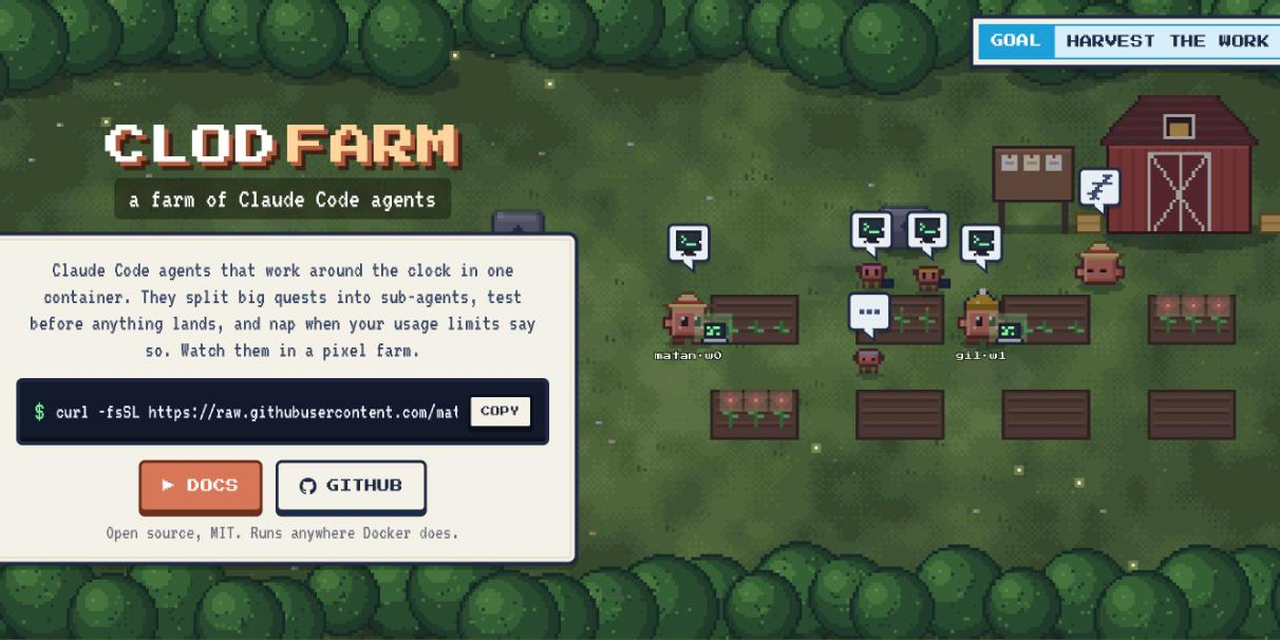
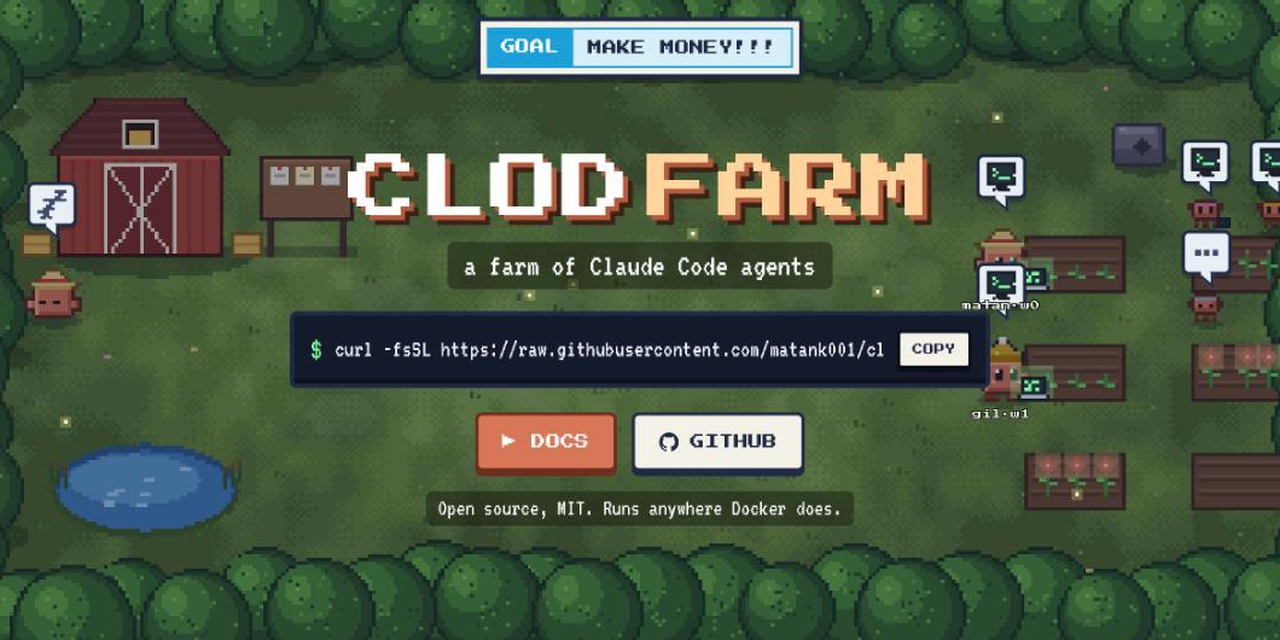
clod.farm: centred title with no panel and no blurb, the field keeps clear of it; GOAL: MAKE MONEY!!!
Claude-Session: https://claude.ai/code/session_015HtZEg3aoN4GPP1rheXQio

diff --git a/clodfarm/ui/app.js b/clodfarm/ui/app.js
@@ -248,10 +248,12 @@ function layoutWorld(W, H, opts = {}) {
   const barn = { w: 46, h: 44 };
   barn.x = opts.barnRight && !portrait ? play.x1 - barn.w - 6 : play.x0 + 6; barn.y = play.y0 - 6;
   const board = { x: opts.barnRight && !portrait ? barn.x - 36 : barn.x + barn.w + 10, y: barn.y + 16, w: 26, h: 20 };
-  const cols = portrait ? 2 : (play.x1 - play.x0 > 300 ? 4 : 3), rows = portrait ? 3 : 2;
+  // opts.clearCenter keeps the middle free for a title (the landing page): the field goes to the right
+  const reserve = opts.reserve && !portrait ? opts.reserve : null;
+  const cols = portrait || reserve ? 2 : (play.x1 - play.x0 > 300 ? 4 : 3), rows = portrait || reserve ? 3 : 2;
   const pw = 26, ph = 14, gx = 20, gy = 16;
   const fw = cols * pw + (cols - 1) * gx, fh = rows * ph + (rows - 1) * gy;
-  const fx = portrait ? Math.round((W - fw) / 2 + 8) : Math.round(play.x1 - fw - 12);
+  const fx = portrait ? Math.round((W - fw) / 2 + 8) : reserve ? Math.round((reserve.x + reserve.w + play.x1) / 2 - fw / 2 + 6) : Math.round(play.x1 - fw - 12);
   const fy = portrait ? Math.round(barn.y + barn.h + 34) : Math.round(Math.max((play.y0 + play.y1) / 2 - fh / 2 + 12, opts.barnRight ? barn.y + barn.h + 20 : 0));
   const plots = [];
   for (let r = 0; r < rows; r++) for (let c = 0; c < cols; c++)
@@ -260,12 +262,12 @@ function layoutWorld(W, H, opts = {}) {
   const pond = { cx: play.x0 + 30, cy: play.y1 - 14, rx: 24, ry: 11 };
   const rest = { x: barn.x + 10, y: barn.y + barn.h + 12 };
   const door = { x: barn.x + barn.w / 2, y: barn.y + barn.h + 2 };
-  return { W, H, T, play, portrait, barn, board, plots, field, pond, rest, door, rocks: [] };
+  return { W, H, T, play, portrait, barn, board, plots, field, pond, rest, door, rocks: [], reserve };
 }
 
 function blocked(L, x, y) {
   const inR = (r, pad = 0) => x > r.x - pad && x < r.x + r.w + pad && y > r.y - pad && y < r.y + r.h + pad + 4;
-  if (inR(L.barn, 8) || inR(L.board, 6) || inR(L.field, 2)) return true;
+  if (inR(L.barn, 8) || inR(L.board, 6) || inR(L.field, 2) || (L.reserve && inR(L.reserve, 12))) return true;
   if (((x - L.pond.cx) / (L.pond.rx + 8)) ** 2 + ((y - L.pond.cy) / (L.pond.ry + 6)) ** 2 < 1) return true;
   return L.rocks.some(r => Math.abs(x - r.x) < r.w / 2 + 6 && y > r.y - 4 && y < r.y + r.h + 4);
 }
@@ -505,7 +507,13 @@ const Scene = {
     this.cv.width = W; this.cv.height = H;
     this.cv.style.width = W * S + "px"; this.cv.style.height = H * S + "px";
     this.ctx.imageSmoothingEnabled = false;
-    this.world = buildWorld(W, H, 7, this.layout || {});
+    const opts = { ...(this.layout || {}) };
+    const keep = opts.clearOf && document.querySelector(opts.clearOf);
+    if (keep) { // keep this element's area free of the field and the critters (in world pixels)
+      const r = keep.getBoundingClientRect();
+      opts.reserve = { x: Math.floor(r.left / S) - 10, y: Math.floor(r.top / S) - 4, w: Math.ceil(r.width / S) + 20, h: Math.ceil(r.height / S) + 8 };
+    }
+    this.world = buildWorld(W, H, 7, opts);
     this.world.randomSpot = () => this.randomSpot();
     this.world.restSpot = (c) => this.restSpot(c);
     for (const c of this.critters.values()) {
@@ -1085,7 +1093,7 @@ const UI = {
  * a new one arrives. No server, no data: just the renderer. */
 const Demo = {
   start() {
-    Scene.layout = { barnRight: true }; // the title and card sit on the left
+    Scene.layout = { clearOf: ".hero" }; // the title sits in the middle
     Scene.init();
     Scene.passive = true;
     this.t0 = nowS();

diff --git a/site/farm.js b/site/farm.js
@@ -248,10 +248,12 @@ function layoutWorld(W, H, opts = {}) {
   const barn = { w: 46, h: 44 };
   barn.x = opts.barnRight && !portrait ? play.x1 - barn.w - 6 : play.x0 + 6; barn.y = play.y0 - 6;
   const board = { x: opts.barnRight && !portrait ? barn.x - 36 : barn.x + barn.w + 10, y: barn.y + 16, w: 26, h: 20 };
-  const cols = portrait ? 2 : (play.x1 - play.x0 > 300 ? 4 : 3), rows = portrait ? 3 : 2;
+  // opts.clearCenter keeps the middle free for a title (the landing page): the field goes to the right
+  const reserve = opts.reserve && !portrait ? opts.reserve : null;
+  const cols = portrait || reserve ? 2 : (play.x1 - play.x0 > 300 ? 4 : 3), rows = portrait || reserve ? 3 : 2;
   const pw = 26, ph = 14, gx = 20, gy = 16;
   const fw = cols * pw + (cols - 1) * gx, fh = rows * ph + (rows - 1) * gy;
-  const fx = portrait ? Math.round((W - fw) / 2 + 8) : Math.round(play.x1 - fw - 12);
+  const fx = portrait ? Math.round((W - fw) / 2 + 8) : reserve ? Math.round((reserve.x + reserve.w + play.x1) / 2 - fw / 2 + 6) : Math.round(play.x1 - fw - 12);
   const fy = portrait ? Math.round(barn.y + barn.h + 34) : Math.round(Math.max((play.y0 + play.y1) / 2 - fh / 2 + 12, opts.barnRight ? barn.y + barn.h + 20 : 0));
   const plots = [];
   for (let r = 0; r < rows; r++) for (let c = 0; c < cols; c++)
@@ -260,12 +262,12 @@ function layoutWorld(W, H, opts = {}) {
   const pond = { cx: play.x0 + 30, cy: play.y1 - 14, rx: 24, ry: 11 };
   const rest = { x: barn.x + 10, y: barn.y + barn.h + 12 };
   const door = { x: barn.x + barn.w / 2, y: barn.y + barn.h + 2 };
-  return { W, H, T, play, portrait, barn, board, plots, field, pond, rest, door, rocks: [] };
+  return { W, H, T, play, portrait, barn, board, plots, field, pond, rest, door, rocks: [], reserve };
 }
 
 function blocked(L, x, y) {
   const inR = (r, pad = 0) => x > r.x - pad && x < r.x + r.w + pad && y > r.y - pad && y < r.y + r.h + pad + 4;
-  if (inR(L.barn, 8) || inR(L.board, 6) || inR(L.field, 2)) return true;
+  if (inR(L.barn, 8) || inR(L.board, 6) || inR(L.field, 2) || (L.reserve && inR(L.reserve, 12))) return true;
   if (((x - L.pond.cx) / (L.pond.rx + 8)) ** 2 + ((y - L.pond.cy) / (L.pond.ry + 6)) ** 2 < 1) return true;
   return L.rocks.some(r => Math.abs(x - r.x) < r.w / 2 + 6 && y > r.y - 4 && y < r.y + r.h + 4);
 }
@@ -505,7 +507,13 @@ const Scene = {
     this.cv.width = W; this.cv.height = H;
     this.cv.style.width = W * S + "px"; this.cv.style.height = H * S + "px";
     this.ctx.imageSmoothingEnabled = false;
-    this.world = buildWorld(W, H, 7, this.layout || {});
+    const opts = { ...(this.layout || {}) };
+    const keep = opts.clearOf && document.querySelector(opts.clearOf);
+    if (keep) { // keep this element's area free of the field and the critters (in world pixels)
+      const r = keep.getBoundingClientRect();
+      opts.reserve = { x: Math.floor(r.left / S) - 10, y: Math.floor(r.top / S) - 4, w: Math.ceil(r.width / S) + 20, h: Math.ceil(r.height / S) + 8 };
+    }
+    this.world = buildWorld(W, H, 7, opts);
     this.world.randomSpot = () => this.randomSpot();
     this.world.restSpot = (c) => this.restSpot(c);
     for (const c of this.critters.values()) {
@@ -1085,7 +1093,7 @@ const UI = {
  * a new one arrives. No server, no data: just the renderer. */
 const Demo = {
   start() {
-    Scene.layout = { barnRight: true }; // the title and card sit on the left
+    Scene.layout = { clearOf: ".hero" }; // the title sits in the middle
     Scene.init();
     Scene.passive = true;
     this.t0 = nowS();

diff --git a/site/style.css b/site/style.css
@@ -58,9 +58,9 @@ a { color: inherit; }
 .goal-text { font: 12px/1 var(--font-px); background: var(--sky-2); padding: 9px 12px; border: 2px solid var(--sky); border-left: 0; }
 
 /* ------------------------------------------------------------------ the card */
-.stage { position: relative; min-height: 100vh; display: grid; grid-template-columns: minmax(0, 1fr); place-items: center; padding: 90px 16px 60px; pointer-events: none; }
-.card { min-width: 0; max-width: 100%; padding: 24px 26px 18px; text-align: center; }
-.hero { pointer-events: auto; width: min(620px, 100%); min-width: 0; display: grid; gap: 18px; }
+.stage { position: relative; min-height: 100vh; justify-items: center; display: grid; grid-template-columns: minmax(0, 1fr); place-items: center; padding: 90px 16px 60px; pointer-events: none; }
+.card { min-width: 0; max-width: 100%; text-align: center; }
+.hero { pointer-events: auto; width: min(580px, 100%); min-width: 0; display: grid; gap: 18px; }
 .title { text-align: center; }
 .logo {
   font: 400 clamp(32px, 8vw, 58px)/1.1 var(--font-px); margin: 0 0 12px; color: #fff; letter-spacing: 1px;
@@ -97,7 +97,7 @@ a { color: inherit; }
 .btn:active { transform: translateY(3px); box-shadow: 0 1px 0 var(--ink); }
 .btn.primary { background: var(--clay); color: #fff; border-color: #6b2f1f; box-shadow: 0 4px 0 #6b2f1f; }
 .btn.primary:hover { background: #e4865f; }
-.note { margin: 6px 0 0; font-size: 19px; color: #6b6f7c; }
+.note { display: inline-block; margin: 4px 0 0; padding: 3px 10px; font-size: 19px; color: #fff; background: rgba(25, 32, 14, .55); border-radius: 6px; }
 
 /* --------------------------------------------------------------------- FAQ */
 .faq { position: relative; width: min(760px, calc(100% - 32px)); margin: 0 auto 30px; padding: 26px 26px 14px; }
@@ -114,15 +114,9 @@ a { color: inherit; }
   background: rgba(22, 30, 12, .62); border-radius: 6px;
 }
 
-@media (min-width: 1100px) {
-  /* the card sits left, so the field (where the Claudes work) stays in view */
-  .stage { place-items: center start; padding-left: max(5vw, 40px); }
-  .hero { width: min(560px, 44vw); }
-  .goal { left: auto; right: 5vw; transform: none; }
 }
 @media (max-height: 760px) {
   .stage { padding-top: 70px; padding-bottom: 24px; }
-  .card { padding: 20px 24px 16px; }
   .hero { gap: 12px; }
   .logo { font-size: 40px; margin-bottom: 8px; }
   .explain { font-size: 21px; margin-bottom: 14px; }
@@ -131,7 +125,6 @@ a { color: inherit; }
 @media (max-width: 640px) {
   .goal { display: none; }
   .stage { padding-top: 24px; }
-  .card { padding: 22px 16px 18px; }
   .explain { font-size: 21px; }
   .install { flex-wrap: wrap; }
   .install code { flex-basis: calc(100% - 30px); }

diff --git a/site/index.html b/site/index.html
@@ -29,8 +29,8 @@
 <meta name="twitter:image" content="https://clod.farm/og.png">
 
 <link rel="preload" href="/fonts/PressStart2P.ttf" as="font" type="font/ttf" crossorigin>
-<link rel="stylesheet" href="/style.css?v=202609260140">
-<script src="/farm.js?v=202609260140" defer></script>
+<link rel="stylesheet" href="/style.css?v=202609260230">
+<script src="/farm.js?v=202609260230" defer></script>
 <script src="/copy.js" defer></script>
 
 <script type="application/ld+json">
@@ -105,7 +105,7 @@
 <canvas id="world" aria-hidden="true"></canvas>
 <div id="labels" aria-hidden="true"></div>
 
-<div class="goal" aria-hidden="true"><span class="goal-label">GOAL</span><span class="goal-text">HARVEST THE WORK</span></div>
+<div class="goal" aria-hidden="true"><span class="goal-label">GOAL</span><span class="goal-text">MAKE MONEY!!!</span></div>
 
 <main id="main" class="stage">
   <div class="hero">
@@ -113,9 +113,7 @@
       <h1 id="h1" class="logo"><span>CLOD</span><span>FARM</span></h1>
       <p class="tagline">a farm of Claude Code agents</p>
     </header>
-    <section class="card panel" aria-labelledby="h1">
-    <p class="explain">Claude Code agents that work around the clock in one container. They split big quests into
-      sub-agents, test before anything lands, and nap when your usage limits say so. Watch them in a pixel farm.</p>
+    <section class="card" aria-labelledby="h1">
 
     <div class="install">
       <span class="prompt" aria-hidden="true">$</span>
